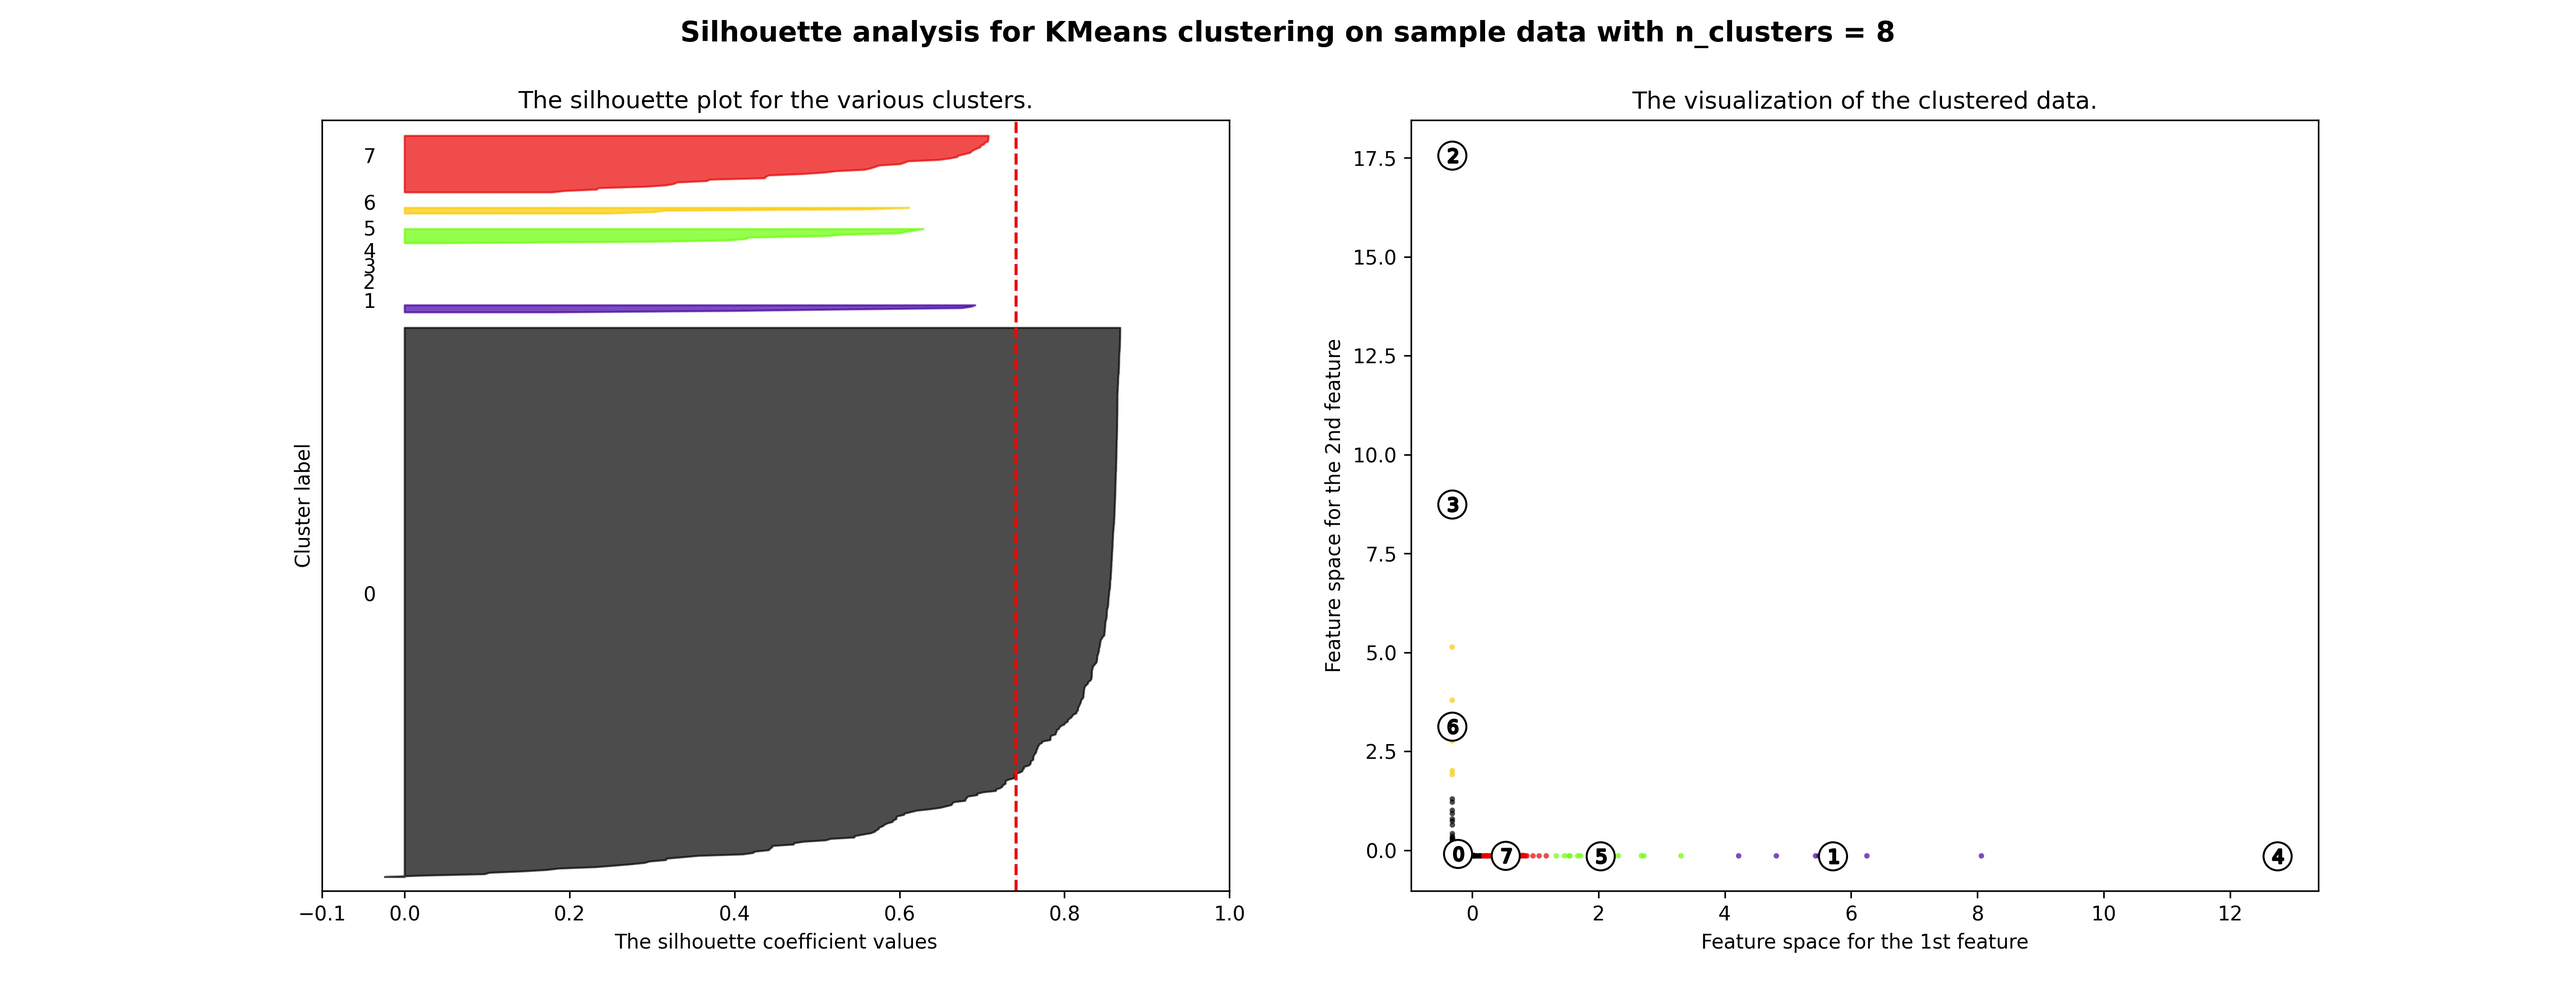
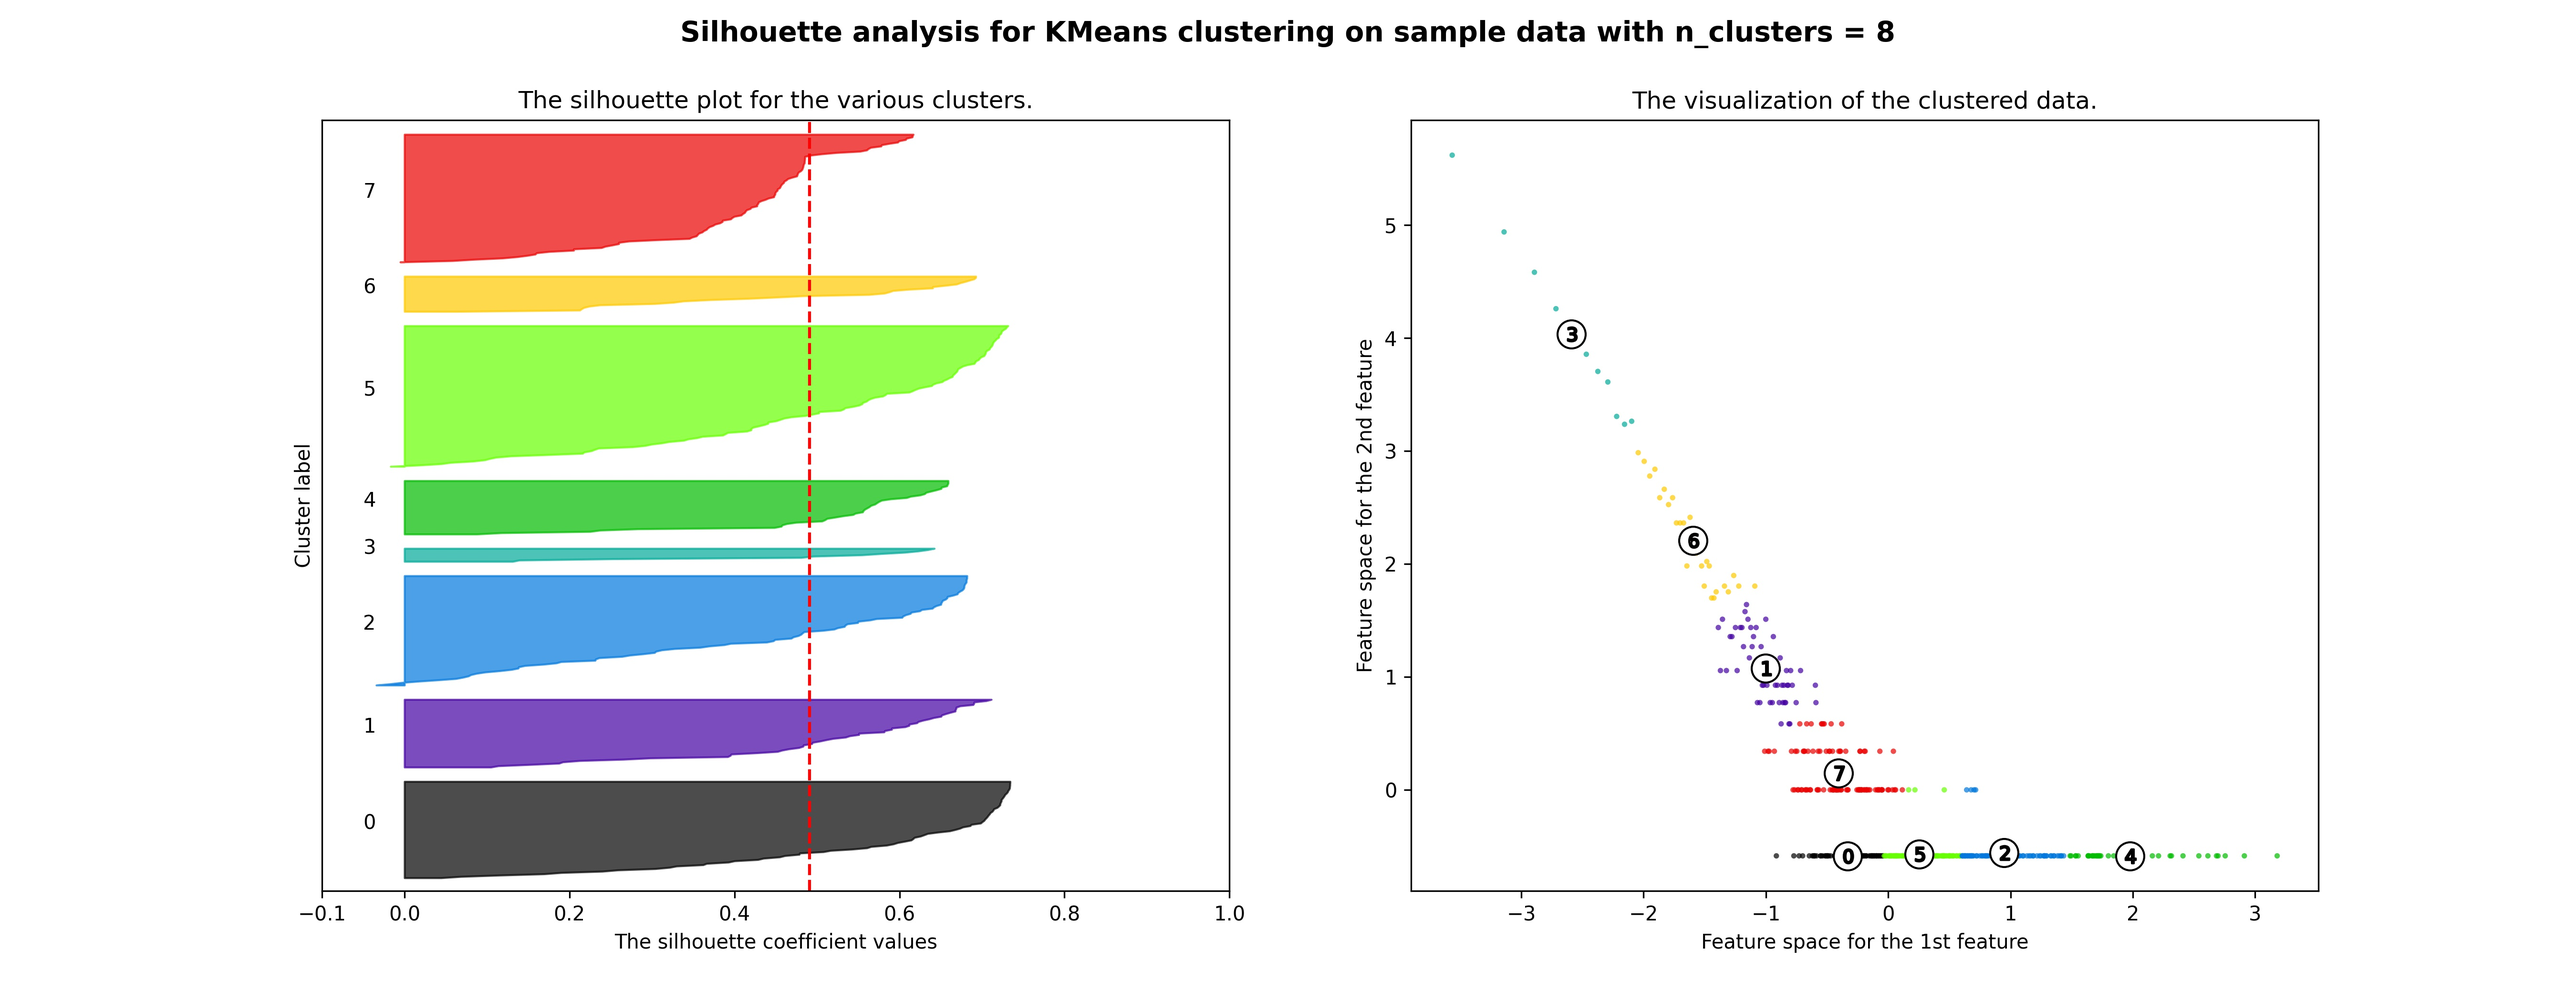
append class labels

diff --git a/main/classifier.py b/main/classifier.py
@@ -2,14 +2,15 @@ import pandas as pd
 import numpy as np
 
 from sklearn.cluster import KMeans
-from sklearn.preprocessing import StandardScaler
 from sklearn.metrics import silhouette_samples, silhouette_score
 
+import matplotlib
+matplotlib.use('Agg')
 import matplotlib.pyplot as plt
 import matplotlib.cm as cm
 
-from modules.rruff_api import RruffApi
 from modules.gsheet_api import GsheetApi
+from functions import helpers
 
 # -*- coding: utf-8 -*-
 """
@@ -17,54 +18,17 @@ from modules.gsheet_api import GsheetApi
 Functions for classifying mineral locality counts into clusters/categories
 """
 
-RruffApi = RruffApi()
-RruffApi.run_main()
-
 GsheetApi = GsheetApi()
 GsheetApi.run_main()
 
-locs = RruffApi.locs
+locs = GsheetApi.locs.copy()
 
 
 # Pre-process data and create a list of arrays of [x, y], where x is the locality count and y is mineral count
 
-locs_2019 = locs.loc[locs['locality_counts_2019'].notna()][['locality_counts_2019']]
-locs_2019['mineral_count'] = 1
+locs_original, locs_non_scaled, locs_transformed = helpers.transform_data(locs)
 
-locs_2019 = locs_2019.groupby(by='locality_counts_2019').agg(mineral_count=pd.NamedAgg(column="mineral_count", aggfunc="sum")).sort_values(by='mineral_count', ascending=False).reset_index(level=0)
-
-locs_2019['locality_counts_2019'] = pd.to_numeric(locs_2019['locality_counts_2019'])
-locs_2019['mineral_count'] = pd.to_numeric(locs_2019['mineral_count'])
-
-curr_locs = locs_2019.to_numpy()
-
-locs_flat = np.array([], dtype=int)
-
-for index, row in locs_2019.iterrows():
-    minerals = row['mineral_count']
-    localities = row['locality_counts_2019']
-
-    if minerals > 1:
-        arr = np.empty(int(minerals))
-        arr.fill(localities)
-        locs_flat = np.append(locs_flat, arr)
-
-    else:
-        locs_flat = np.append(locs_flat, localities)
-
-
-plt.hist(locs_flat, density=True, bins=1000)
-plt.axis([0, 5000, 0, 2000])
-plt.margins(tight=True)
-plt.gca().set(title='Frequency Histogram', ylabel='Frequency')
-
-# Transform features by scaling each feature to a (0, 1)
-
-scaler = StandardScaler()
-curr_locs_transformed = scaler.fit_transform(locs_flat.reshape(-1, 1))
-
-curr_locs_transformed = locs_flat.reshape(-1, 1)
-
+locs_transformed = locs_transformed.to_numpy()
 
 # Find optimum number of clusters
 
@@ -76,7 +40,7 @@ sum_of_squared_distances = []
 
 for n_clusters in range_n_clusters:
     km = KMeans(n_clusters=n_clusters)
-    km = km.fit(curr_locs_transformed)
+    km = km.fit(locs_transformed)
     sum_of_squared_distances.append(km.inertia_)
 
 
@@ -87,7 +51,7 @@ plt.xlabel('Number of clusters')
 plt.ylabel('Sum of squared distances')
 plt.title('Elbow Method For Optimal Number of Clusters')
 
-plt.savefig("figures/knn/elbow_n_clusters.jpeg", dpi=300, format='jpeg')
+plt.savefig("figures/k-means/elbow_n_clusters.jpeg", dpi=300, format='jpeg')
 
 plt.close('all')
 
@@ -109,19 +73,19 @@ for n_clusters in range_n_clusters:
     # The (n_clusters+1)*10 is for inserting blank space between silhouette
     # plots of individual clusters, to demarcate them clearly.
 
-    ax1.set_ylim([0, len(curr_locs_transformed) + (n_clusters + 1) * 10])
+    ax1.set_ylim([0, len(locs_transformed) + (n_clusters + 1) * 10])
 
     # Initialize the clusterer with n_clusters value and a random generator
     # seed of 10 for reproducibility.
 
     clusterer = KMeans(n_clusters=n_clusters, random_state=10)
-    cluster_labels = clusterer.fit_predict(curr_locs_transformed)
+    cluster_labels = clusterer.fit_predict(locs_transformed)
 
     # The silhouette_score gives the average value for all the samples.
     # This gives a perspective into the density and separation of the formed
     # clusters
 
-    silhouette_avg = silhouette_score(curr_locs_transformed, cluster_labels)
+    silhouette_avg = silhouette_score(locs_transformed, cluster_labels)
     print(
         "For n_clusters =",
         n_clusters,
@@ -130,7 +94,7 @@ for n_clusters in range_n_clusters:
     )
 
     # Compute the silhouette scores for each sample
-    sample_silhouette_values = silhouette_samples(curr_locs_transformed, cluster_labels)
+    sample_silhouette_values = silhouette_samples(locs_transformed, cluster_labels)
 
     y_lower = 10
     for i in range(n_clusters):
@@ -173,7 +137,7 @@ for n_clusters in range_n_clusters:
     # 2nd Plot showing the actual clusters formed
     colors = cm.nipy_spectral(cluster_labels.astype(float) / n_clusters)
     ax2.scatter(
-        curr_locs_transformed[:, 0], curr_locs_transformed[:, 1], marker=".", s=30, lw=0, alpha=0.7, c=colors, edgecolor="k"
+        locs_transformed[:, 0], locs_transformed[:, 1], marker=".", s=30, lw=0, alpha=0.7, c=colors, edgecolor="k"
     )
 
     # Labeling the clusters
@@ -203,20 +167,21 @@ for n_clusters in range_n_clusters:
         fontweight="bold",
     )
 
-    plt.savefig(f"figures/knn/silhouette_{n_clusters}_clusters.jpeg", dpi=300, format='jpeg')
+    plt.savefig(f"figures/k-means/silhouette_{n_clusters}_clusters.jpeg", dpi=300, format='jpeg')
 
     plt.close('all')
 
 
+# K-means classification #
 
-kmeans = KMeans(n_clusters=6).fit(curr_locs)
+N_CLUSTERS = 3
 
-kmeans.cluster_centers_
+kmeans = KMeans(init='k-means++', n_clusters=N_CLUSTERS, n_init=1, max_iter=300)
 
-kmeans.n_features_in_
+kmeans.fit(locs_transformed)
 
-kmeans = KMeans(n_clusters=6).fit_predict(curr_locs)
+pred_classes = kmeans.predict(locs_transformed)
 
-kmeans.cluster_centers_
-
-kmeans.n_features_in_
+# add labels to original data
+for cluster in range(N_CLUSTERS):
+    locs_non_scaled.loc[locs_non_scaled.index.isin(*np.where(pred_classes == cluster)), 'cluster'] = cluster

diff --git a/functions/helpers.py b/functions/helpers.py
@@ -7,30 +7,28 @@ from sklearn.preprocessing import StandardScaler
 
 
 def transform_data(df):
-    # for further studying the results, you will need original data
+    """ Transform data and return original df too """
     df_original = df.copy()
 
-    df_transformed = _construct_features(df)
-    df_transformed = _standardize_features(df_transformed)
-    df_transformed = _scale_features(df_transformed)
+    df_transformed = _construct_locality_features(df)
+    df_transformed_non_scaled = df_transformed.copy()
+    df_transformed = _standardize_features(df_transformed, skewed_features=['mineral_count', 'locality_counts'])
+    df_transformed = _scale_features(df_transformed, features_to_scale=['mineral_count', 'locality_counts'])
 
-    return df_original, df_transformed
+    return df_original, df_transformed_non_scaled, df_transformed
 
 
-def _construct_features(df):
-    # adding new features that better represent the problem
-    # you need to have domain knowledge
+def _construct_locality_features(df):
+    """ Create initial df with all features transformed """
 
-    # example of creating a new function based on two existing ones from real estate domain
-    # - cost of buying a house is 6% of the house price
-    # - standard deposit is 10% of price
-    df['first_payment'] = df['house_price'] * 0.06 + df['house_price'] * 0.1
+    df = df.loc[df['locality_counts'].notna()][['locality_counts']]
+    df['locality_counts'] = pd.to_numeric(df['locality_counts'])
 
-    # anuitete formula https://myfin.by/wiki/term/annuitetnyj-platyozh
-    n = 360         # loan for 30 years
-    i = 0.00283     # loan rate 3.4%
-    k = (i * (1 + i) ** n) / ((1 + i) ** n - 1)
-    df['monthly_payment'] = (df['house_price'] - df['house_price'] * 0.1) * k
+    df['mineral_count'] = 1
+
+    df = df.groupby(by='locality_counts').agg(mineral_count=pd.NamedAgg(column="mineral_count", aggfunc="sum"))
+    df = df.sort_values(by=['mineral_count', 'locality_counts'], ascending=(False, True), axis=0).reset_index(
+        level=0)
 
     return df
 
